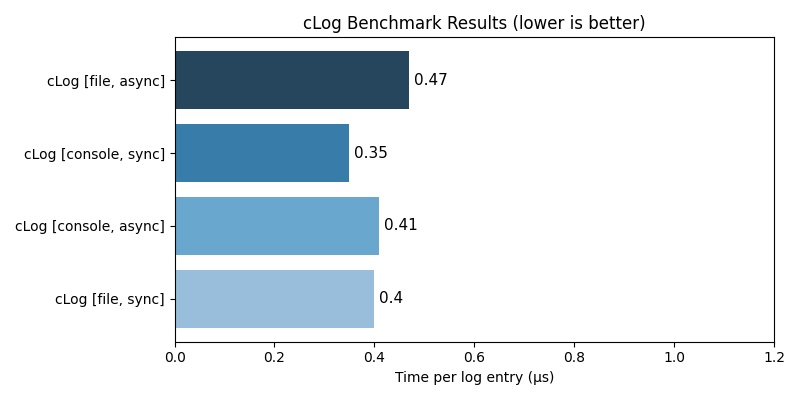
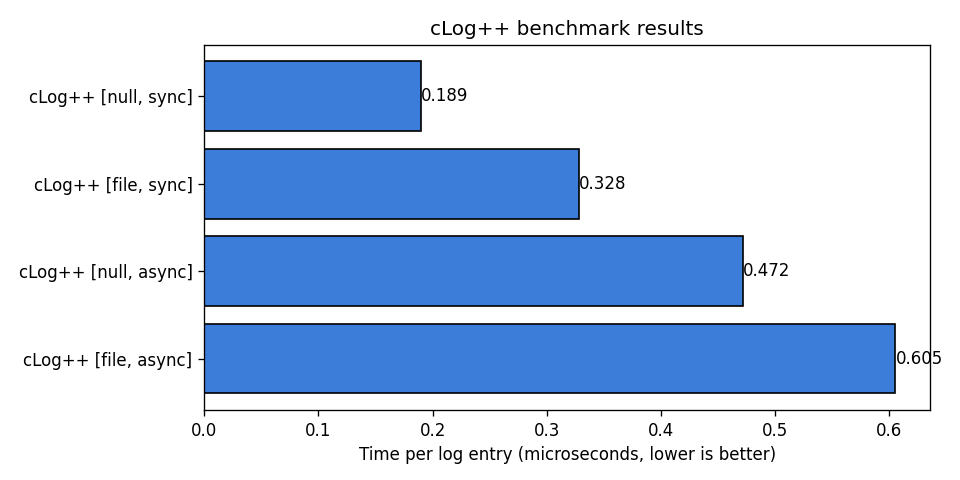
bench: measure end-to-end (lossless) and report honest numbers
The old benchmark timed async pushes against a 1024-slot queue that dropped
~99% of them, so the headline numbers measured push-and-drop, not logging. It
also kept the console sink active, so the "file" runs paid for stderr too.

Time 100k calls end-to-end including the full async drain (now lossless), with
the console sink removed so file runs measure file I/O only, plus a discard
sink to isolate logger overhead. Write benchmark_results.csv (the file the plot
reads) and rewrite plot_benchmarks.py to need only matplotlib + the stdlib.
Regenerate benchmark.png from the new results.

diff --git a/benchmarks/benchmark_logger.cpp b/benchmarks/benchmark_logger.cpp
@@ -1,3 +1,17 @@
+// cLog++ micro-benchmark.
+//
+// Each scenario times N end-to-end log calls, INCLUDING the logger's
+// destructor, which fully drains the async queue before returning. Async mode
+// is lossless (it applies backpressure when the queue is full), so the file
+// numbers reflect real delivery, not dropped entries.
+//
+// Scenarios:
+//   file  - real FileSink I/O (the console sink is removed so we measure file only)
+//   null  - a discard sink, to isolate the logger's serialize + queue overhead
+//
+// Results are written to benchmark_results.csv (read by plot_benchmarks.py) and
+// echoed to stdout.
+
 #include "logger.hpp"
 #include "file_sink.hpp"
 #include <chrono>
@@ -8,57 +22,64 @@ using namespace std::chrono;
 
 constexpr int N = 100000;
 
+// Sink that discards everything, so the benchmark measures the logger itself.
+struct NullSink : c_log::Sink {
+    void log(const std::string&) override {}
+};
+
 template <typename Fn>
-double run_bench(const char* label, Fn fn) {
+double run_bench(std::ostream& csv, const char* logger, const char* sink, const char* mode, Fn fn) {
     auto start = high_resolution_clock::now();
     fn();
     auto end = high_resolution_clock::now();
-    double ms = duration<double, std::micro>(end - start).count() / N;
-    std::cout << label << ", " << ms << "\n";
-    return ms;
+    double usec = duration<double, std::micro>(end - start).count() / N;
+    csv << logger << "," << sink << "," << mode << "," << usec << "\n";
+    std::cout << logger << "," << sink << "," << mode << "," << usec << "\n";
+    return usec;
 }
 
 int main() {
-    std::ofstream file("bench_cLogpp_file.txt");
+    const char* csv_path = "benchmark_results.csv";
+    std::ofstream csv(csv_path);
+    csv << "logger,sink,mode,usec_per_log\n";
     std::cout << "logger,sink,mode,usec_per_log\n";
 
-    // async file
-    run_bench("cLog++,file,async", [&]() {
+    const char* bench_file = "bench_cLogpp_file.txt";
+
+    run_bench(csv, "cLog++", "file", "async", [&] {
         c_log::Logger log(c_log::Logger::Mode::Async);
-        log.add_sink(std::make_unique<c_log::FileSink>("./bench_cLogpp_file.txt"));
-        for (int i = 0; i < N; ++i)
-            log.info("bench").kv("i", i);
+        log.clear_sinks();
+        log.add_sink(std::make_unique<c_log::FileSink>(bench_file, /*truncate=*/true));
+        for (int i = 0; i < N; ++i) log.info("bench").kv("i", i);
     });
 
-    // sync file
-    run_bench("cLog++,file,sync", [&]() {
+    run_bench(csv, "cLog++", "file", "sync", [&] {
         c_log::Logger log(c_log::Logger::Mode::Sync);
-        log.add_sink(std::make_unique<c_log::FileSink>("./bench_cLogpp_file.txt"));
-        for (int i = 0; i < N; ++i)
-            log.info("bench").kv("i", i);
+        log.clear_sinks();
+        log.add_sink(std::make_unique<c_log::FileSink>(bench_file, /*truncate=*/true));
+        for (int i = 0; i < N; ++i) log.info("bench").kv("i", i);
     });
 
-    // async console
-    run_bench("cLog++,console,async", [&]() {
+    run_bench(csv, "cLog++", "null", "async", [&] {
         c_log::Logger log(c_log::Logger::Mode::Async);
-        for (int i = 0; i < N; ++i)
-            log.info("bench").kv("i", i);
+        log.clear_sinks();
+        log.add_sink(std::make_unique<NullSink>());
+        for (int i = 0; i < N; ++i) log.info("bench").kv("i", i);
     });
 
-    // sync console
-    run_bench("cLog++,console,sync", [&]() {
+    run_bench(csv, "cLog++", "null", "sync", [&] {
         c_log::Logger log(c_log::Logger::Mode::Sync);
-        for (int i = 0; i < N; ++i)
-            log.info("bench").kv("i", i);
+        log.clear_sinks();
+        log.add_sink(std::make_unique<NullSink>());
+        for (int i = 0; i < N; ++i) log.info("bench").kv("i", i);
     });
 
-    // no-op baseline
-    run_bench("noop,none,none", [&]() {
-        for (int i = 0; i < N; ++i) {
-            int x = i * 2 + 1;
-            volatile int sink = x;
-        }
+    run_bench(csv, "noop", "none", "none", [&] {
+        volatile int sink = 0;
+        for (int i = 0; i < N; ++i) sink = i * 2 + 1;
+        (void)sink;
     });
 
+    std::cout << "\nWrote " << csv_path << "\n";
     return 0;
 }

diff --git a/benchmarks/plot_benchmarks.py b/benchmarks/plot_benchmarks.py
@@ -1,39 +1,41 @@
-import pandas as pd
+#!/usr/bin/env python3
+"""Plot cLog++ benchmark results.
+
+Reads benchmark_results.csv (produced by benchmark_logger) and writes
+benchmark.png. Only depends on matplotlib + the standard library.
+
+Usage:
+    ./benchmark_logger            # writes benchmark_results.csv
+    python plot_benchmarks.py     # writes benchmark.png
+"""
+import csv
+import sys
+
+import matplotlib
+matplotlib.use("Agg")  # headless / CI safe
 import matplotlib.pyplot as plt
-import seaborn as sns
 
-# Read the CSV file
-df = pd.read_csv("benchmark_results.csv")
+CSV_PATH = sys.argv[1] if len(sys.argv) > 1 else "benchmark_results.csv"
 
-# Remove noop for cleaner graph
-plot_df = df[df["logger"] != "noop"]
+labels, values = [], []
+with open(CSV_PATH, newline="") as f:
+    for row in csv.DictReader(f):
+        if row["logger"] == "noop":  # baseline, not a logging mode
+            continue
+        labels.append(f'{row["logger"]} [{row["sink"]}, {row["mode"]}]')
+        values.append(float(row["usec_per_log"]))
 
-# Compose readable labels
-plot_df["Label"] = (
-    plot_df["logger"] + " [" + plot_df["sink"] + ", " + plot_df["mode"] + "]"
-)
-
-# Sort by performance (ascending)
-plot_df = plot_df.sort_values("usec_per_log")
-
-# Set style
-sns.set_theme(style="whitegrid")
+# Sort fastest first.
+order = sorted(range(len(values)), key=lambda i: values[i])
+labels = [labels[i] for i in order]
+values = [values[i] for i in order]
 
 plt.figure(figsize=(8, 4))
-bar = sns.barplot(
-    data=plot_df,
-    y="Label",
-    x="usec_per_log",
-    palette="Blues_d",
-    edgecolor="k",
-)
-plt.xlabel("Time per log entry (μs)")
-plt.ylabel("")
-plt.title("cLog++ Benchmark Results (lower is better)")
+bars = plt.barh(labels, values, color="#3b7dd8", edgecolor="black")
+plt.bar_label(bars, fmt="%.3f")
+plt.xlabel("Time per log entry (microseconds, lower is better)")
+plt.title("cLog++ benchmark results")
+plt.gca().invert_yaxis()
 plt.tight_layout()
-
-for container in bar.containers:
-    bar.bar_label(container, fmt="%.2f")
-
-plt.savefig("benchmark.png")
+plt.savefig("benchmark.png", dpi=120)
 print("Graph saved to benchmark.png")
